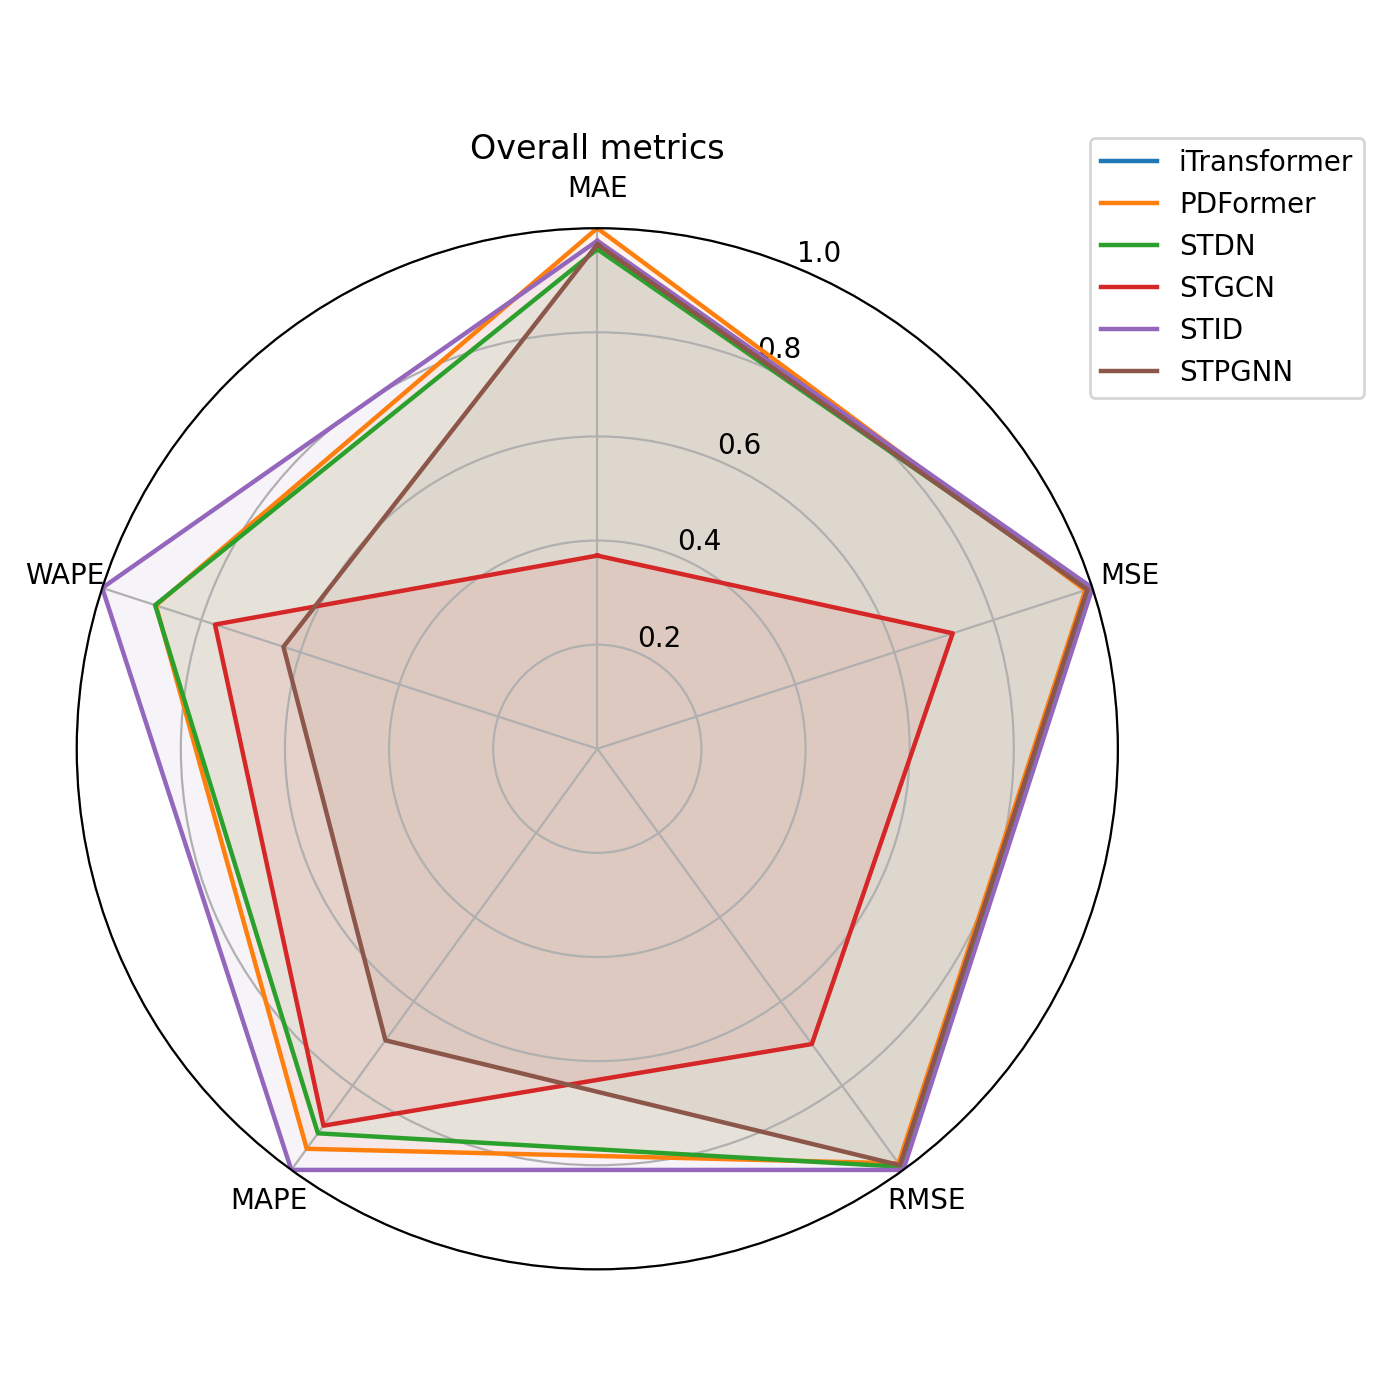
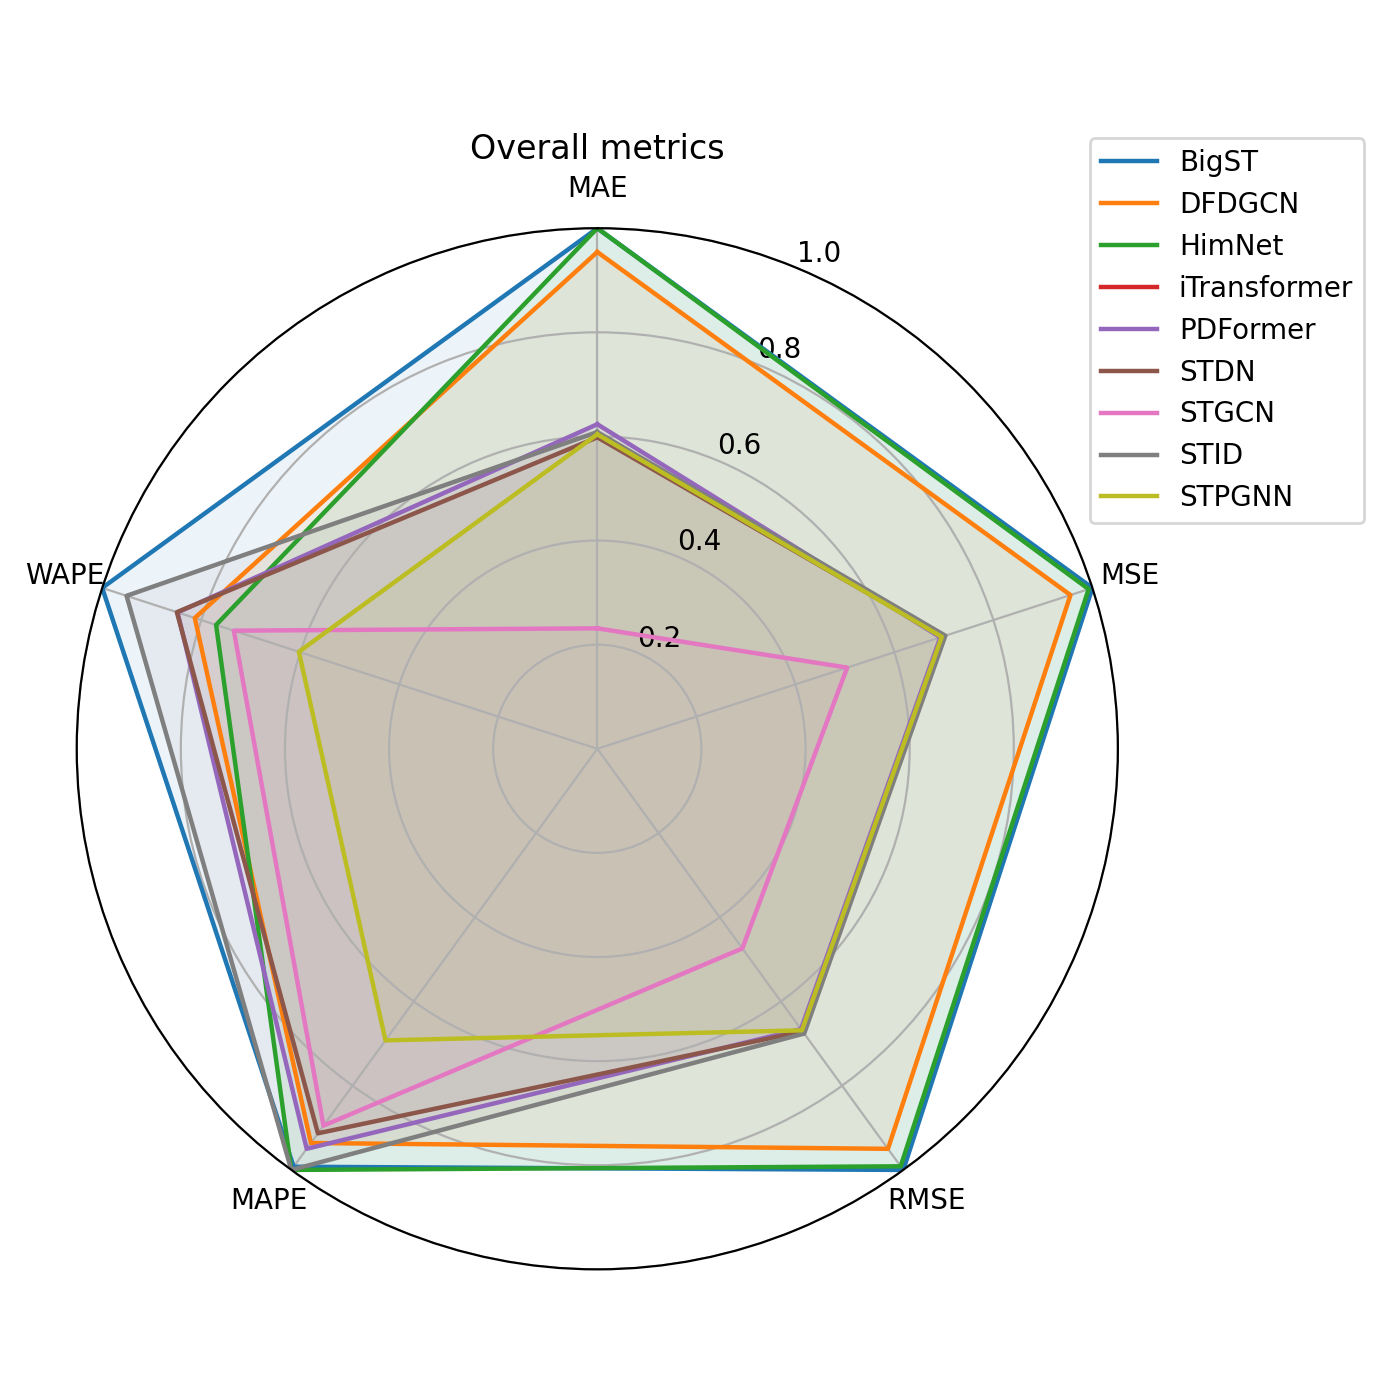
test: 加入是否加入时间维开关

diff --git a/model/HimNet/arch/model/HimNet.py b/model/HimNet/arch/model/HimNet.py
@@ -210,6 +210,7 @@ class HimNet(nn.Module):
         st_embedding_dim=16,
         tf_decay_steps=4000,
         use_teacher_forcing=True,
+        use_time_embedding=True,
     ):
         super().__init__()
 
@@ -225,6 +226,7 @@ class HimNet(nn.Module):
         self.st_embedding_dim = st_embedding_dim
         self.tf_decay_steps = tf_decay_steps
         self.use_teacher_forcing = use_teacher_forcing
+        self.use_time_embedding = use_time_embedding
 
         self.encoder_s = HimEncoder(
             num_nodes,
@@ -272,14 +274,19 @@ class HimNet(nn.Module):
         )
 
     def forward(self, x, y_cov, labels=None, batches_seen=None):
-        tod = x[:, -1, 0, 1]
-        dow = x[:, -1, 0, 2]
-        tod_emb = self.tod_embedding(
-            (tod * 288).long()
-        )  # (batch_size, tod_embedding_dim)
-        
-        dow_emb = self.dow_embedding(dow.long())  # (batch_size, dow_embedding_dim)
-        time_embedding = torch.cat([tod_emb, dow_emb], dim=-1)  # (B, tod+dow)
+        if self.use_time_embedding:
+            tod = x[:, -1, 0, 1]
+            dow = x[:, -1, 0, 2]
+            tod_emb = self.tod_embedding((tod * 288).long())  # (B, tod_embedding_dim)
+            dow_emb = self.dow_embedding(dow.long())  # (B, dow_embedding_dim)
+            time_embedding = torch.cat([tod_emb, dow_emb], dim=-1)  # (B, tod+dow)
+        else:
+            time_embedding = torch.zeros(
+                x.shape[0],
+                self.tod_embedding.embedding_dim + self.dow_embedding.embedding_dim,
+                device=x.device,
+                dtype=x.dtype,
+            )
 
         support = torch.softmax(
             torch.relu(self.node_embedding @ self.node_embedding.T), dim=-1

diff --git a/model/BigST/arch/model.py b/model/BigST/arch/model.py
@@ -8,7 +8,7 @@ import pdb
 
 class Model(nn.Module):
     def __init__(self, seq_num, in_dim, out_dim, hid_dim, num_nodes, tau, random_feature_dim, node_emb_dim, time_emb_dim, \
-                 use_residual, use_bn, use_spatial, use_long, dropout, time_of_day_size, day_of_week_size, supports=None, edge_indices=None):
+                 use_residual, use_bn, use_spatial, use_long, dropout, time_of_day_size, day_of_week_size, use_time_embedding=True, supports=None, edge_indices=None):
         super(Model, self).__init__()
 
         self.tau = tau
@@ -20,6 +20,7 @@ class Model(nn.Module):
         self.use_bn = use_bn
         self.use_spatial = use_spatial
         self.use_long = use_long
+        self.use_time_embedding = use_time_embedding
         
         self.dropout = dropout
         self.activation = nn.ReLU()
@@ -27,6 +28,7 @@ class Model(nn.Module):
         
         self.time_num = time_of_day_size
         self.week_num = day_of_week_size
+        self.time_emb_dim = time_emb_dim
         
         # node embedding layer
         self.node_emb_layer = nn.Parameter(torch.empty(num_nodes, node_emb_dim))
@@ -65,8 +67,16 @@ class Model(nn.Module):
         # x: (B, N, T, D)
         B, N, T, D = x.size()
         
-        time_emb = self.time_emb_layer[(x[:, :, -1, 1]*self.time_num).type(torch.LongTensor)]
-        week_emb = self.week_emb_layer[(x[:, :, -1, 2]).type(torch.LongTensor)]
+        if self.use_time_embedding:
+            time_index = (x[:, :, -1, 1] * self.time_num).long().to(x.device).clamp(min=0, max=self.time_num - 1)
+            week_index = x[:, :, -1, 2].long().to(x.device) % self.week_num
+            time_emb = self.time_emb_layer[time_index]
+            week_emb = self.week_emb_layer[week_index]
+            time_emb = time_emb.transpose(1, 2).unsqueeze(-1) # (B, dim, N, 1)
+            week_emb = week_emb.transpose(1, 2).unsqueeze(-1) # (B, dim, N, 1)
+        else:
+            time_emb = torch.zeros(B, self.time_emb_dim, N, 1, device=x.device, dtype=x.dtype)
+            week_emb = torch.zeros(B, self.time_emb_dim, N, 1, device=x.device, dtype=x.dtype)
         
         # input embedding
         x = x.contiguous().view(B, N, -1).transpose(1, 2).unsqueeze(-1) # (B, D*T, N, 1)
@@ -75,10 +85,6 @@ class Model(nn.Module):
         # node embeddings
         node_emb = self.node_emb_layer.unsqueeze(0).expand(B, -1, -1).transpose(1, 2).unsqueeze(-1) # (B, dim, N, 1)
 
-        # time embeddings
-        time_emb = time_emb.transpose(1, 2).unsqueeze(-1) # (B, dim, N, 1)
-        week_emb = week_emb.transpose(1, 2).unsqueeze(-1) # (B, dim, N, 1)
-        
         x_g = torch.cat([node_emb, time_emb, week_emb], dim=1) # (B, dim*4, N, 1)
         x = torch.cat([input_emb, node_emb, time_emb, week_emb], dim=1) # (B, dim*4, N, 1)
 

diff --git a/train_BigST.py b/train_BigST.py
@@ -26,7 +26,8 @@ def main():
                 input_len=input_len, 
                 output_len=output_len, 
                 num_nodes=num_nodes, 
-                adj=adj.tolist()
+                adj=adj.tolist(),
+                use_time_embedding=False
             )
             BasicTSLauncher.launch_training(BasicTSForecastingConfig(
                 model=BigST, 

diff --git a/train_HimNet.py b/train_HimNet.py
@@ -24,7 +24,8 @@ def main():
             model_config = HimNetConfig(
                 input_len=input_len, 
                 output_len=output_len, 
-                num_nodes=num_nodes
+                num_nodes=num_nodes,
+                use_time_embedding=False
             )
             BasicTSLauncher.launch_training(BasicTSForecastingConfig(
                 model=HimNet, 

diff --git a/model/BigST/arch/bigst_basicts_arch.py b/model/BigST/arch/bigst_basicts_arch.py
@@ -29,6 +29,7 @@ class BigST(nn.Module):
             use_bn=bool(config.use_bn),
             use_spatial=bool(config.use_spatial),
             use_long=False,
+            use_time_embedding=bool(config.use_time_embedding),
             dropout=float(config.dropout),
             time_of_day_size=self.time_of_day_size,
             day_of_week_size=self.day_of_week_size,

diff --git a/model/BigST/config/bigst_config.py b/model/BigST/config/bigst_config.py
@@ -20,6 +20,7 @@ class BigSTConfig(BasicTSModelConfig):
     use_bn: bool = field(default=True)
     use_spatial: bool = field(default=True)
     use_long: bool = field(default=False)
+    use_time_embedding: bool = field(default=True)
     time_of_day_size: int = field(default=288)
     day_of_week_size: int = field(default=7)
     adj: Optional[List[List[float]]] = field(default=None)

diff --git a/model/HimNet/arch/himnet_basicts_arch.py b/model/HimNet/arch/himnet_basicts_arch.py
@@ -26,6 +26,7 @@ class HimNet(nn.Module):
             st_embedding_dim=int(config.st_embedding_dim),
             tf_decay_steps=int(config.tf_decay_steps),
             use_teacher_forcing=bool(config.use_teacher_forcing),
+            use_time_embedding=bool(config.use_time_embedding),
         )
 
     def forward(self, inputs: torch.Tensor, inputs_timestamps: torch.Tensor = None) -> torch.Tensor:

diff --git a/model/HimNet/config/himnet_config.py b/model/HimNet/config/himnet_config.py
@@ -22,3 +22,4 @@ class HimNetConfig(BasicTSModelConfig):
     tf_decay_steps: int = field(default=4000)
     use_teacher_forcing: bool = field(default=False)
     time_of_day_size: int = field(default=288)
+    use_time_embedding: bool = field(default=True)